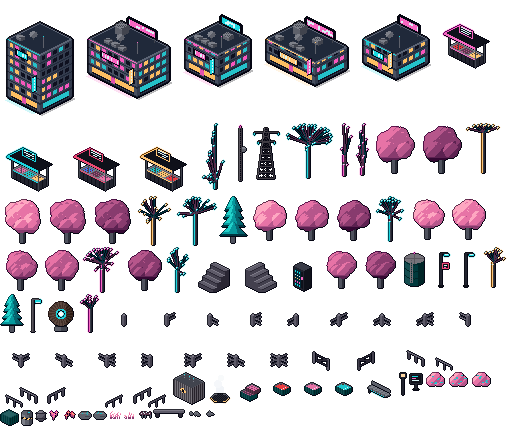
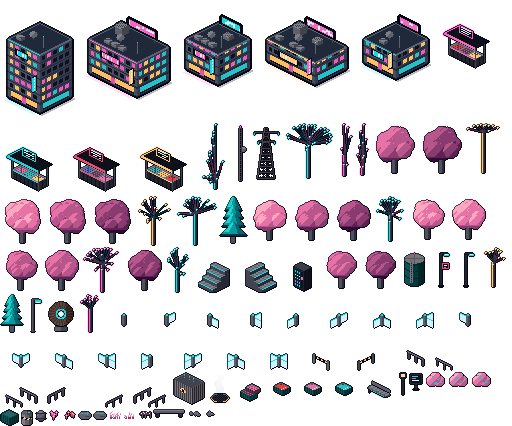
Neon city: glass fences and barrier gates, LED stairs, hydroponics (ground builder pick)
Bridge rails, deck and flower beds stay the cottage drawings recoloured.

diff --git a/art/theme_cyber.py b/art/theme_cyber.py
@@ -73,9 +73,10 @@ CYBER = {"plaza": "panels", "canal": "coolant", "walkway": "tiles", "windows": "
          # picked 2026-10-12: all neon
          "stalls": "neon", "lamps": "neon", "bench": "neon", "barrel": "neon", "crates": "neon",
          "board": "neon", "cart": "neon", "well": "neon",
-         # ground pieces (cyber_props.ground): fences recolour / rail / glass, the rest recolour / neon (beds: led, shrooms)
-         "fences": "recolour", "rails": "recolour", "stairs": "recolour", "deck": "recolour", "beds": "recolour",
-         "crops": "recolour"}
+         # ground pieces (cyber_props.ground): fences recolour / rail / glass, the rest recolour / neon (beds: led, shrooms);
+         # picked 2026-10-12: glass fences, LED stairs, hydroponics, the rest recoloured
+         "fences": "glass", "rails": "recolour", "stairs": "neon", "deck": "recolour", "beds": "recolour",
+         "crops": "neon"}
 # Trees stay trees in the city (a dense wood reads as a glowing park): CYBER["trees"] for broadleaf kinds and
 # CYBER["pines"] for conifers: neon, holo, biolum (dark crowns, glowing specks), outline (dark, a neon rim),
 # cable (crowns of wire bundles, broadleaf only); "planter": trees standing in lit planter boxes. "tech-<concept>":
